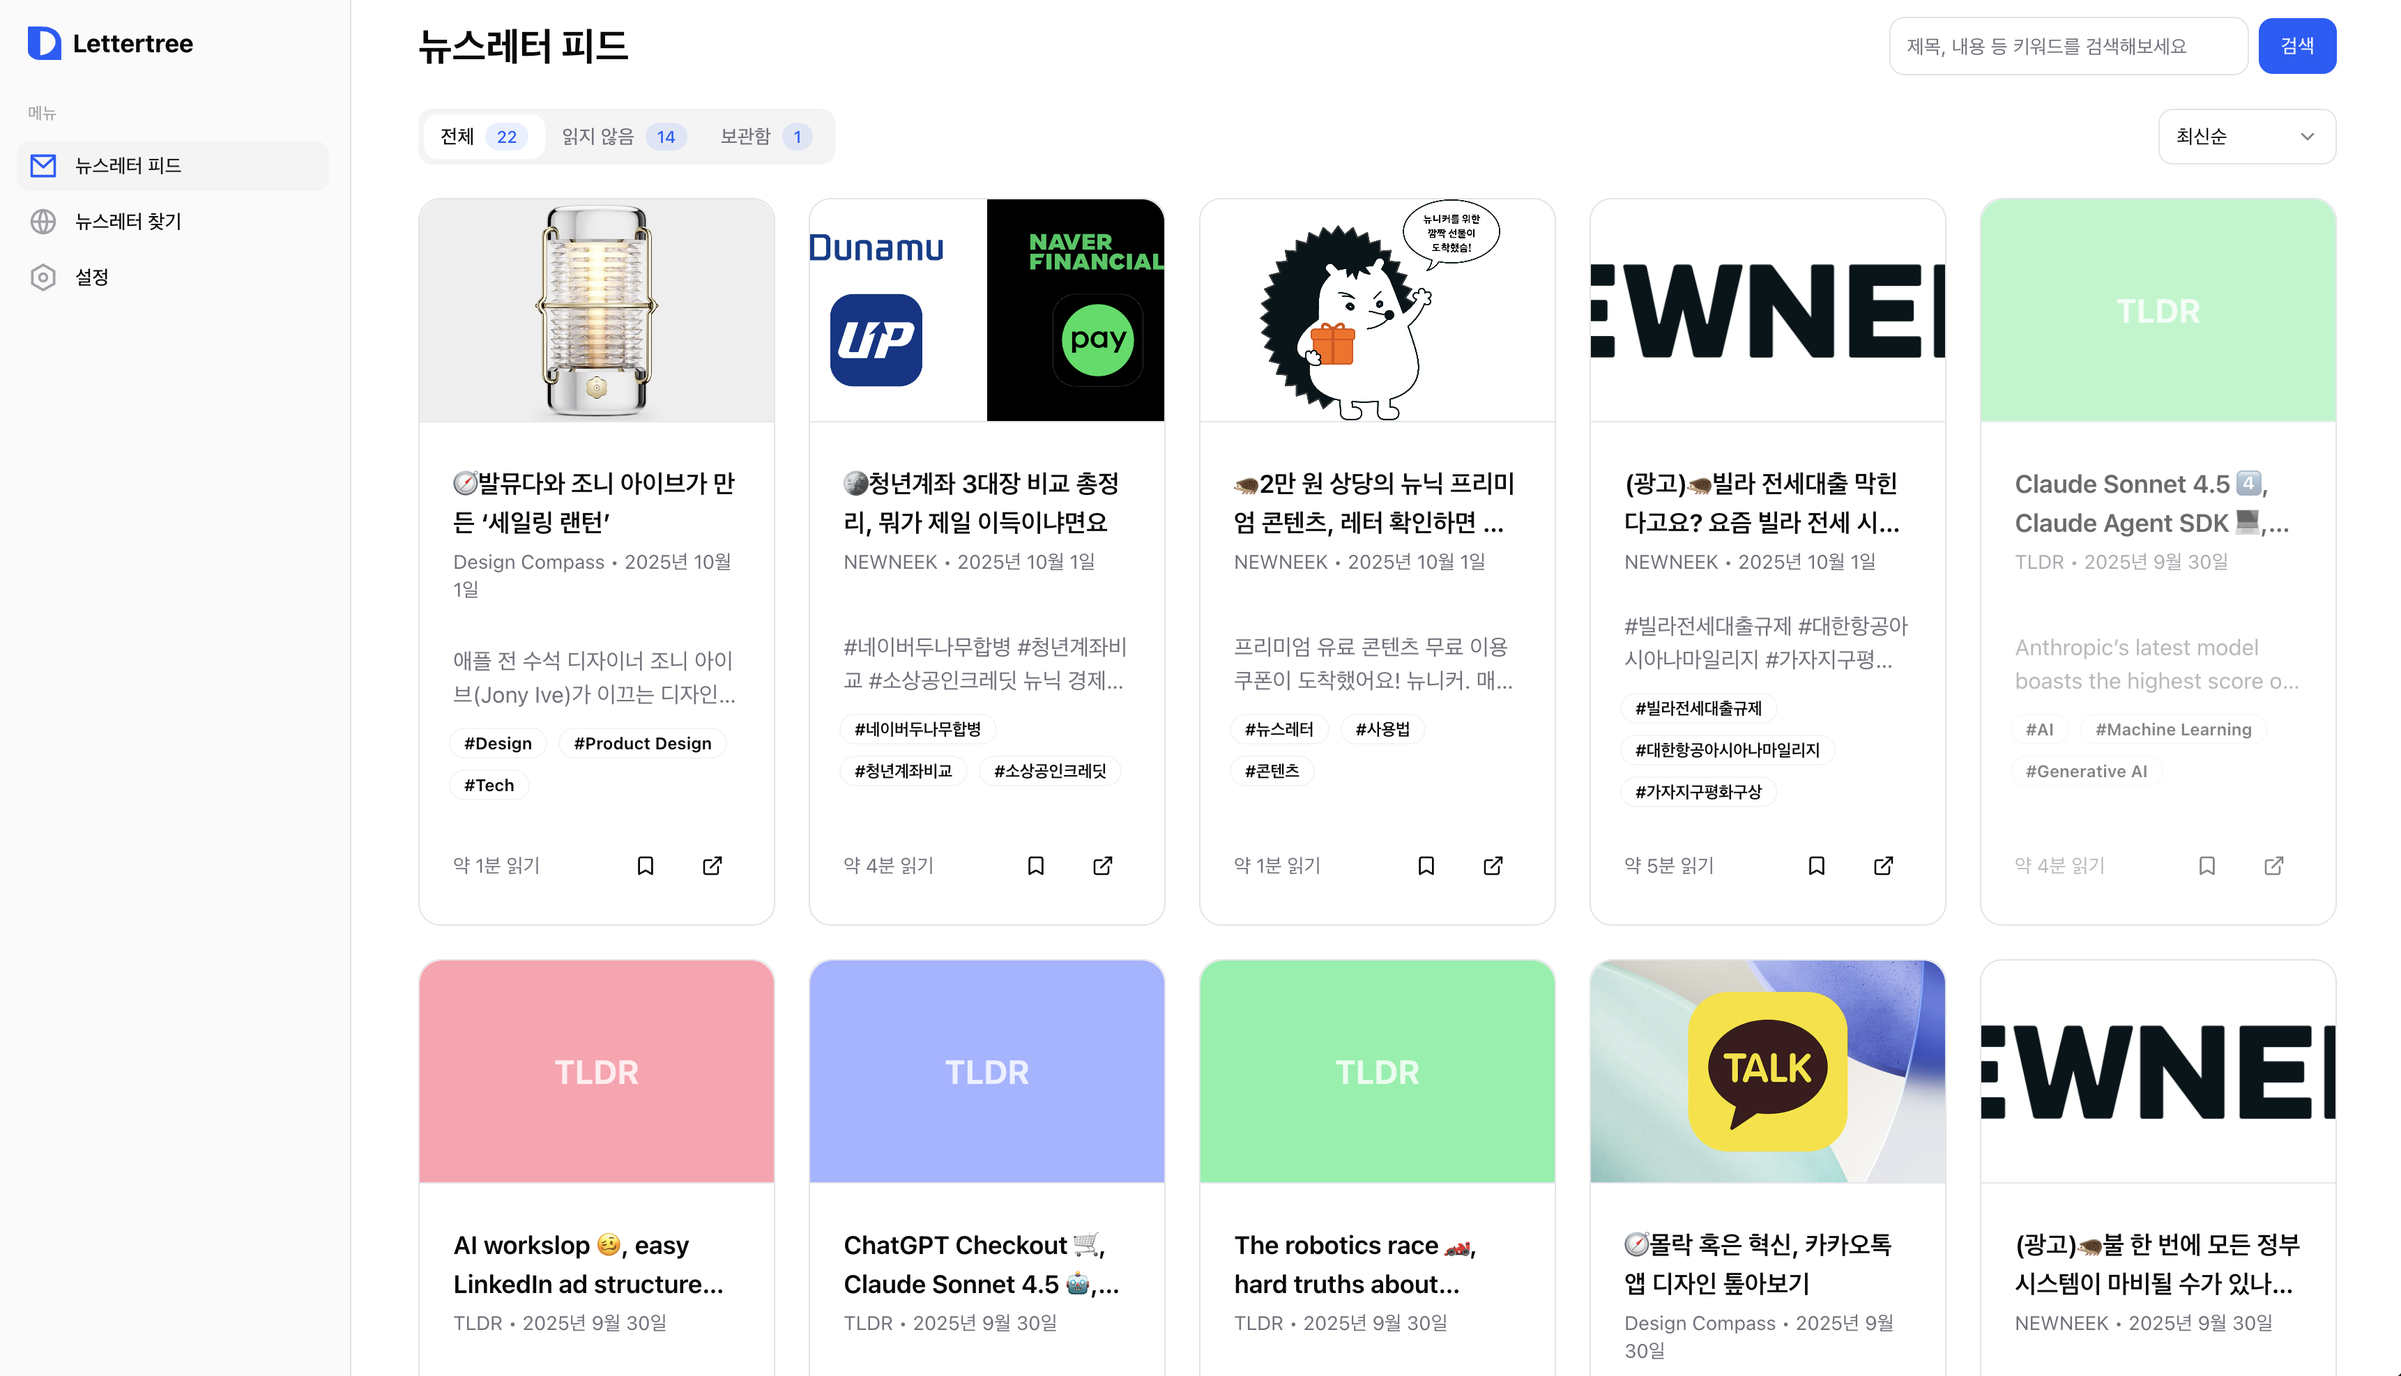
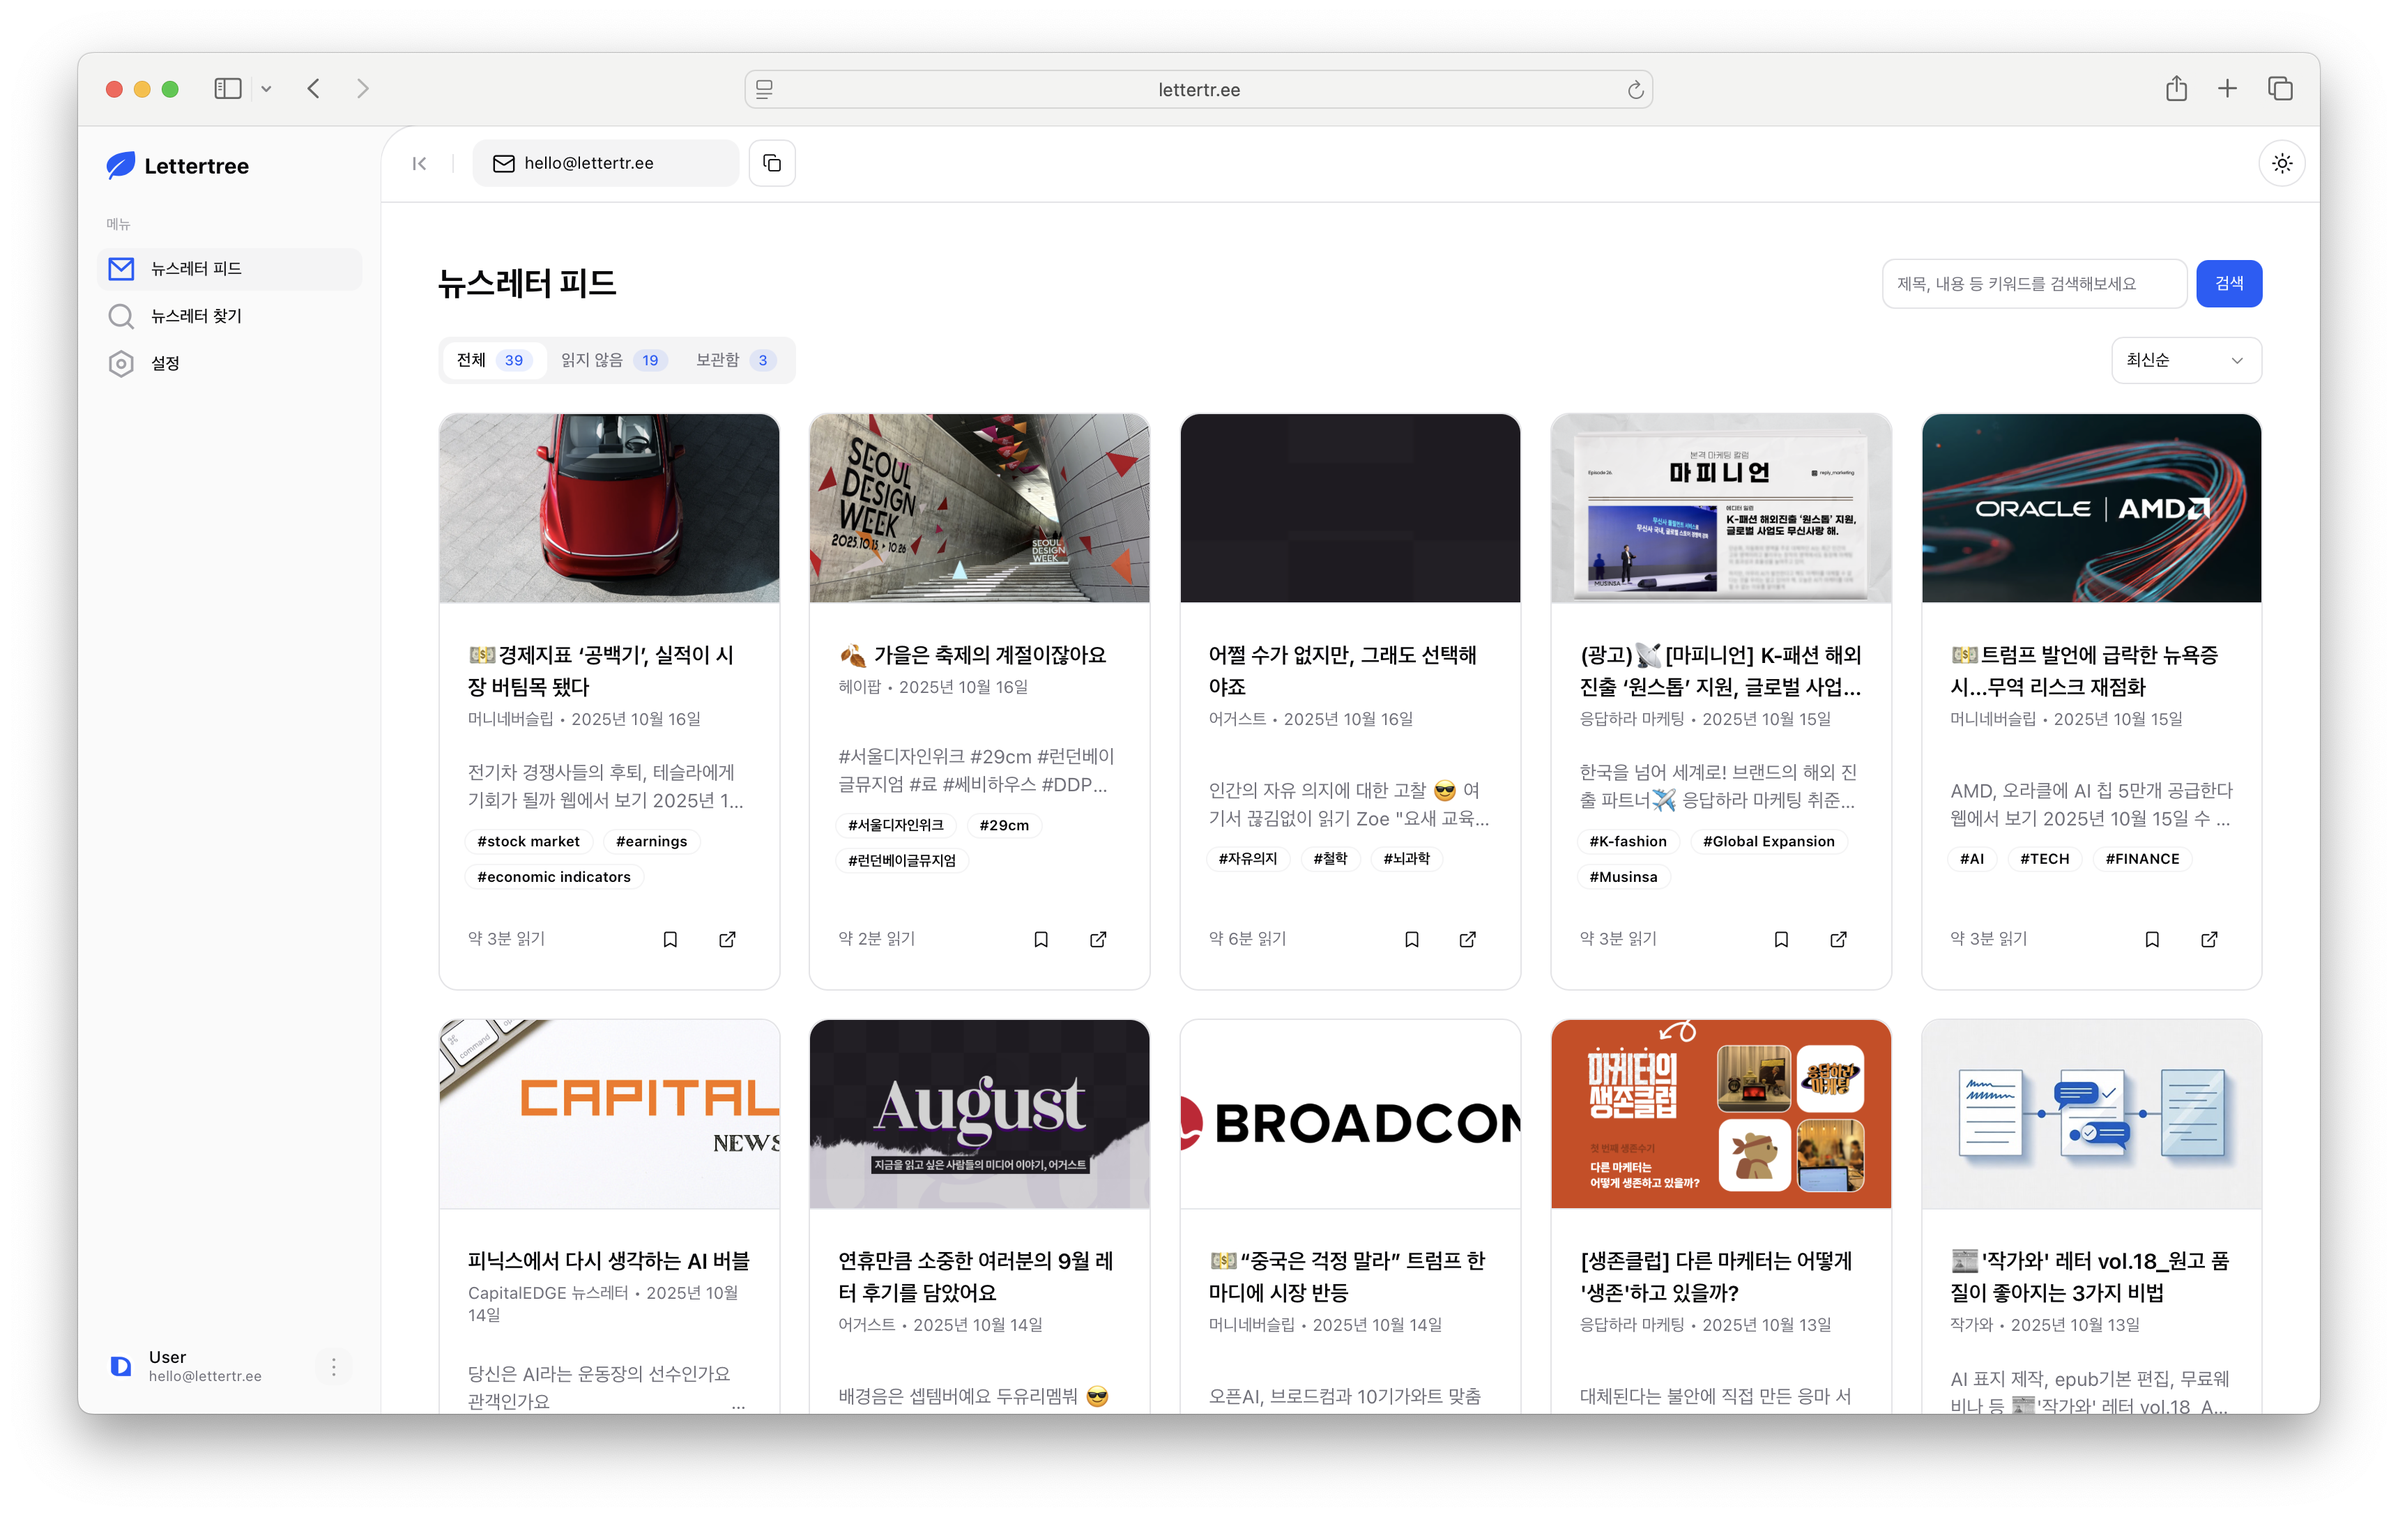
feat: 데모 이미지 수정

diff --git a/app/features/marketing/components/sections/hero.tsx b/app/features/marketing/components/sections/hero.tsx
@@ -109,7 +109,7 @@ export const HeroSection = ({ user }: { user: AuthUser | null }) => {
 
         <div className="group relative mt-14">
           <div className="lg:-top-8 -translate-x-1/2 absolute top-2 left-1/2 mx-auto h-24 w-[90%] transform rounded-full bg-primary/50 blur-3xl lg:h-80" />
-          <div className="relative mx-auto w-full max-w-5xl">
+          {/* <div className="relative mx-auto w-full max-w-5xl">
             <div className="flex h-10 items-center rounded-t-lg bg-sidebar px-4">
               <div className="flex space-x-2">
                 <div className="h-3 w-3 rounded-full bg-red-500" />
@@ -123,7 +123,7 @@ export const HeroSection = ({ user }: { user: AuthUser | null }) => {
                 </div>
               </div>
             </div>
-          </div>
+          </div> */}
           <img
             width={1200}
             height={1200}
